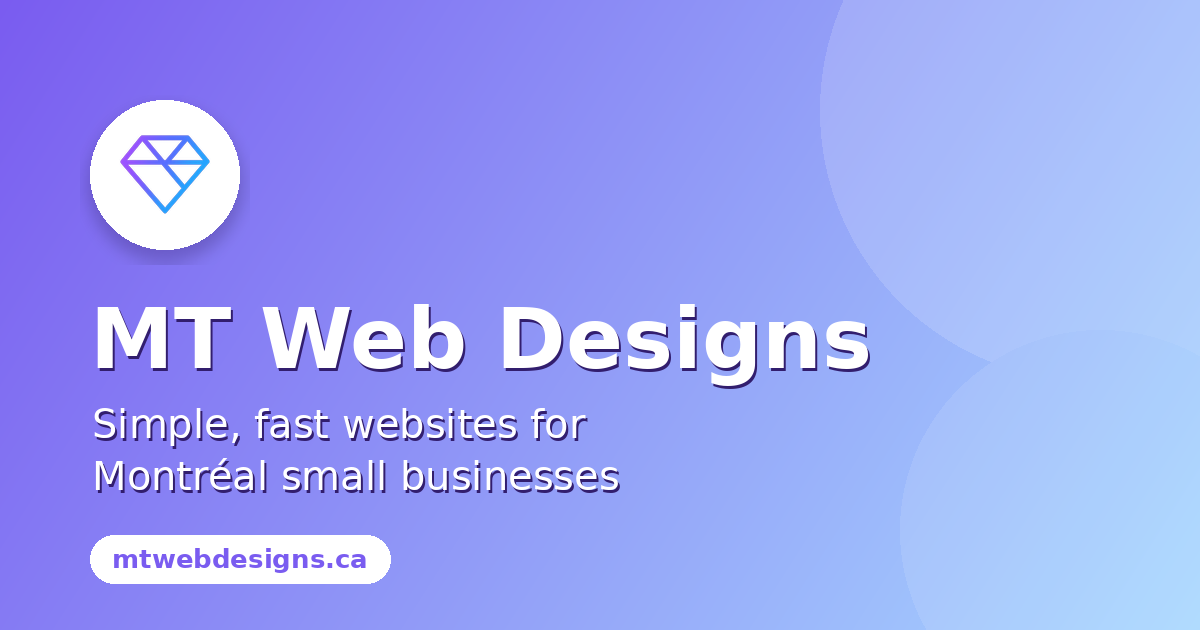
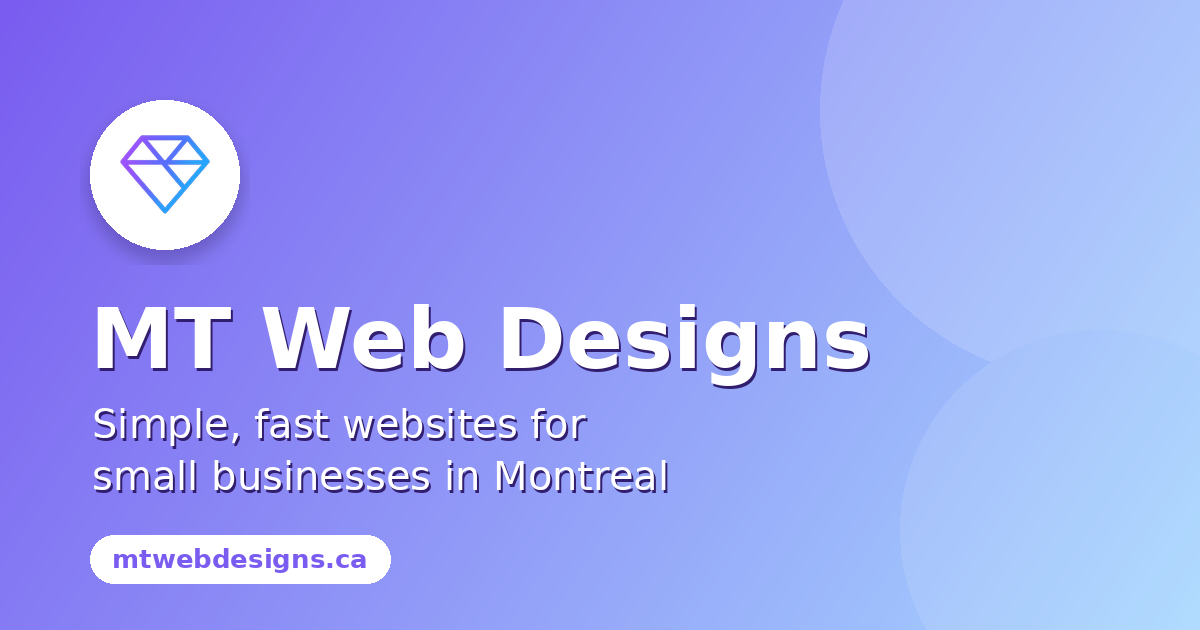
Add files via upload

Changed region(s): [[0.0617, 0.7238, 0.555, 0.7841]]

diff --git a/index.html b/index.html
@@ -14,7 +14,7 @@
     <meta property="og:image" content="https://mtwebdesigns.ca/og-image.png" />
     <meta property="og:image:width" content="1200" />
     <meta property="og:image:height" content="630" />
-    <meta property="og:image:alt" content="MT Web Designs: simple, fast websites for small businesses and professionals in Montreal" />
+    <meta property="og:image:alt" content="MT Web Designs: simple, fast websites for small businesses in Montreal" />
     <meta property="og:site_name" content="MT Web Designs" />
     <meta property="og:locale" content="en_CA" />
     <meta property="og:locale:alternate" content="fr_CA" />
@@ -23,7 +23,7 @@
     <link rel="preconnect" href="https://fonts.googleapis.com" />
     <link rel="preconnect" href="https://fonts.gstatic.com" crossorigin />
     <link href="https://fonts.googleapis.com/css2?family=Poppins:wght@400;600;700&display=swap" rel="stylesheet" />
-    <link rel="stylesheet" href="style.css?v=8" />
+    <link rel="stylesheet" href="style.css?v=11" />
 </head>
 <body>
 
@@ -54,6 +54,7 @@
     <h1 data-en="Simple, fast websites for small businesses in Montreal." data-fr="Des sites Web simples et rapides pour les petites entreprises de Montréal.">
         Simple, fast websites for small businesses in Montreal.
     </h1>
+    <p data-en="Web design services offered in French and English." data-fr="Services de conception Web offerts en français et en anglais.">Web design services offered in French and English.</p>
     <a href="#contact" class="cta-button" data-en="Get a Free Quote" data-fr="Obtenir une soumission gratuite">Get a Free Quote</a>
     <p class="price-note" data-en="Websites from $1,500" data-fr="Sites Web à partir de 1 500 $">Websites from $1,500</p>
 </section>
@@ -69,9 +70,9 @@
             <h3 data-en="Web Design & Development" data-fr="Conception et développement Web">
                 Web Design & Development
             </h3>
-            <p data-en="Fast, responsive websites in French and English, built with HTML, CSS and JavaScript."
-               data-fr="Sites Web rapides et adaptatifs, en français et en anglais, conçus en HTML, CSS et JavaScript.">
-               Fast, responsive websites in French and English, built with HTML, CSS and JavaScript.
+            <p data-en="Fast, responsive websites in French and English, built SEO-ready with HTML, CSS and JavaScript."
+               data-fr="Sites Web rapides et adaptatifs, en français et en anglais, prêts pour le référencement (SEO) et conçus en HTML, CSS et JavaScript.">
+               Fast, responsive websites in French and English, built SEO-ready with HTML, CSS and JavaScript.
             </p>
         </div>
 
@@ -139,8 +140,7 @@
 <section id="about" class="about">
     <h2 data-en="About" data-fr="À propos">About</h2>
     <div class="about-card">
-        <p class="about-lead" data-en="A web design service of MISTechnologies (since 2001)."
-           data-fr="Un service de conception Web de MISTechnologies (depuis 2001).">A web design service of MISTechnologies (since 2001).</p>
+        <p class="about-lead"><span data-en="A web design service of" data-fr="Un service de conception Web de">A web design service of</span> <a href="https://mistechnologies.ca" target="_blank" rel="noopener">MISTechnologies</a> <span data-en="(since 2001)." data-fr="(depuis 2001).">(since 2001).</span></p>
         <ul class="about-facts">
             <li data-en="Free needs analysis and quote" data-fr="Analyse des besoins et soumission gratuites">Free needs analysis and quote</li>
             <li data-en="Bilingual service" data-fr="Service bilingue">Bilingual service</li>

diff --git a/style.css b/style.css
@@ -336,3 +336,6 @@ a:focus-visible, button:focus-visible{ outline:3px solid var(--violet); outline-
   nav a{ padding:12px 7px; font-size:0.85rem; }
   footer{ padding-bottom:90px; }
 }
+
+/* ABOUT LINK */
+.about-lead a{ color:inherit; text-decoration:underline; }
